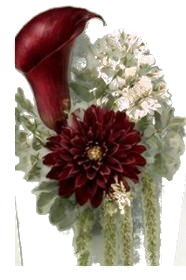
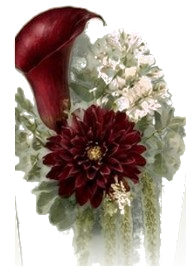
Tilpass siden til designsystemet, ny nedtelling og ikoner i programmet
- Retter avvik fra designsystemet: én rød aksent, calla-rød disk, kontrast
  på nedtellingen, ingen script under 32 px, tilt-vinkler, ikoner i green-leaf
- Hvit peon i stedet for calla ved «Kommer du?», mindre «Kommer du?»-tekst
- Blomsterklyngen toner ut i bunnen i stedet for å være kuttet
- Nedtellingen står til høyre med hvit bukett, som i Canva
- Fjerner stedssiden med stort bilde og stedslapp
- Linjeikoner ved hvert punkt i programmet

Changed region(s): [[0.3763, 0.8, 0.8871, 0.9714], [0.0806, 0.8571, 0.1344, 0.9429]]

diff --git a/style.css b/style.css
@@ -11,7 +11,7 @@
   /* Flater */
   --sage: #d1d4cd;          /* målt fra Canva-sidene */
   --paper: #f7f3ea;
-  --raised: #fffdf8;
+  --raised: #fcfaf5;
   --forest: #3f4b38;
   --envelope: #626552;
   --burgundy: #410013;
@@ -25,13 +25,14 @@
   --leaf: #4f6b53;
   --sage-deep: #8fa08b;
   --line: #ddd6c8;
-  --inset: #c9bfa9;
-  --inset-dark: #f7f3ea55;
+  --inset: #4a2c0a59;
+  --inset-dark: #f7f3ea66;
 
   --space-1: 4px; --space-2: 8px; --space-3: 16px; --space-4: 24px; --space-5: 40px; --space-6: 64px;
   --radius-paper: 2px; --radius-sm: 6px; --radius-pill: 9999px;
-  --shadow-paper: 0 2px 4px #2b21180f, 0 8px 18px -4px #2b211826;
-  --shadow-lifted: 0 4px 8px #2b211814, 0 16px 30px -6px #2b211838;
+  --shadow-paper: 0 1px 2px #2b211814, 0 10px 22px -6px #2b21182e;
+  --shadow-lifted: 0 2px 4px #2b21181a, 0 18px 36px -8px #2b211840;
+  --calla: #4a151b;
   --focus-ring: 0 0 0 3px var(--paper), 0 0 0 6px var(--leaf);
 
   --font-script: "Great Vibes", "Snell Roundhand", cursive;
@@ -70,7 +71,7 @@ a { color: var(--wine); }
 .env__pocket { position: absolute; inset: auto 0 0 0; height: 100%; background: var(--envelope); clip-path: polygon(0 0, 50% 54%, 100% 0, 100% 100%, 0 100%); z-index: 2; border-radius: var(--radius-paper); }
 .env__flap { position: absolute; inset: 0 0 auto 0; height: 62%; background: color-mix(in srgb, var(--envelope) 92%, #000); clip-path: polygon(0 0, 100% 0, 50% 100%); transform-origin: top center; z-index: 3; transition: transform 800ms ease-in-out, z-index 0s 400ms; }
 .env__card { position: absolute; left: 8%; right: 8%; top: 8%; bottom: 8%; z-index: 1; background: var(--paper); border-radius: var(--radius-paper); color: var(--brown); display: grid; place-items: start center; padding-top: 10%; transition: transform 800ms ease-in-out 250ms; }
-.env__card .script { font-size: clamp(30px, 8vw, 40px); line-height: 1.1; }
+.env__card .script { font-size: clamp(32px, 8vw, 40px); line-height: 1.1; }
 .seal { position: absolute; left: 50%; top: 62%; width: 96px; height: 96px; transform: translate(-50%, -50%); z-index: 4; filter: drop-shadow(0 3px 4px #3e0a1766); transition: opacity 300ms ease-out; }
 .env:hover .seal { transform: translate(-50%, -50%) scale(1.04); transition: transform 250ms ease-out; }
 .env.is-open .env__flap { transform: rotateX(180deg); z-index: 0; }
@@ -113,9 +114,10 @@ a { color: var(--wine); }
 
 /* ---------- Program ---------- */
 .timeline { list-style: none; margin: 0; padding: 0; }
-.timeline li { display: grid; grid-template-columns: 76px 1fr; gap: var(--space-3); padding: var(--space-4) 0; border-top: 1px solid var(--line); }
+.timeline li { display: grid; grid-template-columns: 60px 1fr; align-items: center; gap: var(--space-4); padding: var(--space-4) 0; border-top: 1px solid var(--line); }
 .timeline li:last-child { border-bottom: 1px solid var(--line); }
-.time { font: 600 18px/29px var(--font-caps); letter-spacing: .1em; color: var(--wine); }
+.time { font: 600 16px/29px var(--font-caps); letter-spacing: .1em; color: var(--wine); margin-right: 4px; }
+.timeline__ikon { width: 100%; height: auto; max-height: 52px; }
 .timeline h3 { font: 600 17px/29px var(--font-caps); letter-spacing: .16em; text-transform: uppercase; color: var(--brown); }
 .timeline p { color: var(--ink); }
 
@@ -184,7 +186,7 @@ select.input { appearance: none; background-image: linear-gradient(45deg, transp
   .bouquet--bl { height: 26vh; }
   .cover { padding-top: 22vh; padding-bottom: 18vh; place-items: start center; }
   .collage { gap: var(--space-5); }
-  .timeline li { grid-template-columns: 64px 1fr; }
+  .timeline li { grid-template-columns: 56px 1fr; gap: var(--space-3); }
 }
 
 @media (prefers-reduced-motion: reduce) {
@@ -344,12 +346,12 @@ select.input { appearance: none; background-image: linear-gradient(45deg, transp
 .k { position: absolute; margin: 0; }
 
 .k-env     { left: calc(108 * var(--u)); top: calc(12 * var(--u));  width: calc(410 * var(--u)); z-index: 1; }
-.k-navn    { left: calc(44 * var(--u));  top: calc(300 * var(--u)); width: calc(300 * var(--u)); height: calc(225 * var(--u)); z-index: 3; }
-.k-std     { left: calc(342 * var(--u)); top: calc(236 * var(--u)); width: calc(230 * var(--u)); height: calc(284 * var(--u)); z-index: 2; rotate: 3deg; }
+.k-navn    { left: calc(44 * var(--u));  top: calc(300 * var(--u)); width: calc(300 * var(--u)); height: calc(225 * var(--u)); z-index: 3; rotate: -1deg; }
+.k-std     { left: calc(342 * var(--u)); top: calc(236 * var(--u)); width: calc(230 * var(--u)); height: calc(284 * var(--u)); z-index: 2; rotate: 4deg; }
 .k-blomst  { left: calc(255 * var(--u)); top: calc(575 * var(--u)); width: calc(80 * var(--u));  z-index: 2; }
 .k-rsvp    { left: calc(88 * var(--u));  top: calc(545 * var(--u)); width: calc(176 * var(--u)); height: calc(192 * var(--u)); z-index: 3; rotate: -3deg; }
-.k-polaroid{ left: calc(330 * var(--u)); top: calc(552 * var(--u)); width: calc(215 * var(--u)); z-index: 4; rotate: 3deg; }
-.k-calla   { left: calc(34 * var(--u)); top: calc(478 * var(--u)); width: calc(170 * var(--u)); z-index: 4; rotate: -28deg; filter: drop-shadow(0 2px 3px #2b21181f); pointer-events: none; }
+.k-polaroid{ left: calc(330 * var(--u)); top: calc(552 * var(--u)); width: calc(215 * var(--u)); z-index: 4; rotate: -1deg; }
+.k-peon    { left: calc(22 * var(--u)); top: calc(500 * var(--u)); width: calc(118 * var(--u)); z-index: 3; rotate: -8deg; filter: drop-shadow(0 2px 3px #2b21181f); pointer-events: none; }
 .k-disk    { left: calc(260 * var(--u)); top: calc(722 * var(--u)); width: calc(100 * var(--u)); height: calc(100 * var(--u)); z-index: 6; }
 
 /* Papirkort */
@@ -372,16 +374,16 @@ select.input { appearance: none; background-image: linear-gradient(45deg, transp
 .k-std__sted { font: 600 calc(22 * var(--u))/1.2 var(--font-serif); margin-top: calc(4 * var(--u)); }
 .k-std__by { font: 400 max(9px, calc(14 * var(--u)))/1.3 var(--font-serif); }
 .k-std__dato { font: 600 calc(20 * var(--u))/1.2 var(--font-serif); }
-.k-std__samme { margin-top: calc(8 * var(--u)); font: 600 max(8px, calc(10 * var(--u)))/1.2 var(--font-caps); letter-spacing: .08em; white-space: nowrap; text-transform: uppercase; color: var(--wine); }
+.k-std__samme { margin-top: calc(8 * var(--u)); font: 600 max(8px, calc(11 * var(--u)))/1.35 var(--font-caps); letter-spacing: .14em; text-transform: uppercase; color: var(--brown); }
 .k-rsvp__lead { font: 400 calc(28 * var(--u))/1 var(--font-script); }
-.k-rsvp__word { font: 500 calc(32 * var(--u))/1.1 var(--font-serif); letter-spacing: .08em; text-transform: uppercase; }
-.k-rsvp__frist { font: 400 calc(21 * var(--u))/1.1 var(--font-script); margin-top: calc(8 * var(--u)); }
-.k-rsvp__knapp { margin-top: calc(12 * var(--u)); padding: calc(5 * var(--u)) calc(14 * var(--u)); border-radius: var(--radius-pill); background: var(--burgundy); color: var(--on-dark); font: 600 max(8px, calc(11 * var(--u)))/1.2 var(--font-caps); letter-spacing: .16em; text-transform: uppercase; }
+.k-rsvp__word { font: 500 calc(24 * var(--u))/1.15 var(--font-serif); letter-spacing: .08em; text-transform: uppercase; }
+.k-rsvp__frist { font: italic 400 max(10px, calc(16 * var(--u)))/1.3 var(--font-serif); color: var(--muted); margin-top: calc(8 * var(--u)); }
+.k-rsvp__knapp { margin-top: calc(12 * var(--u)); padding-bottom: calc(2 * var(--u)); border-bottom: 1px solid currentColor; font: 600 max(8px, calc(11 * var(--u)))/1.2 var(--font-caps); letter-spacing: .16em; text-transform: uppercase; }
 
 .k-polaroid { box-sizing: border-box; padding: calc(10 * var(--u)) calc(10 * var(--u)) calc(34 * var(--u)); background: var(--raised); border-radius: var(--radius-paper); box-shadow: var(--shadow-paper); }
-.k-polaroid img { width: 100%; aspect-ratio: 5 / 6; object-fit: cover; object-position: 50% 20%; }
+.k-polaroid img { width: 100%; aspect-ratio: 4 / 5; object-fit: cover; object-position: 50% 20%; }
 
-.k-disk { display: flex; flex-direction: column; align-items: center; justify-content: center; border-radius: 50%; background: var(--calla, #55161b); color: var(--on-dark); text-decoration: none; box-shadow: var(--shadow-paper); }
+.k-disk { display: flex; flex-direction: column; align-items: center; justify-content: center; border-radius: 50%; background: var(--calla); color: var(--on-dark); text-decoration: none; box-shadow: var(--shadow-paper); }
 .k-disk__caps { font: 600 max(8px, calc(11 * var(--u)))/1.2 var(--font-caps); letter-spacing: .18em; text-transform: uppercase; }
 .k-disk__script { font: 400 calc(28 * var(--u))/1.1 var(--font-script); }
 
@@ -400,7 +402,7 @@ a.k:focus-visible { outline: 2px solid transparent; box-shadow: var(--focus-ring
 .is-open .k-rsvp     { animation-delay: 1100ms; }
 .is-open .k-polaroid { animation-delay: 1250ms; }
 .is-open .k-blomst   { animation-name: kInn; animation-delay: 1450ms; }
-.is-open .k-calla    { animation-name: kInn; animation-delay: 1550ms; }
+.is-open .k-peon     { animation-name: kInn; animation-delay: 1550ms; }
 .is-open .k-disk     { animation: popp 700ms cubic-bezier(.3, 1.6, .5, 1) 1900ms both; }
 .js .k-polaroid img { filter: sepia(1) brightness(1.7) blur(6px); }
 .is-open .k-polaroid img { animation: develop 1200ms ease-out 1700ms forwards; }
@@ -427,38 +429,19 @@ a.k:focus-visible { outline: 2px solid transparent; box-shadow: var(--focus-ring
 .env { width: min(440px, 82vw); }
 .cover__hint { font: 600 clamp(15px, 2.4vw, 20px)/1.4 var(--font-caps); letter-spacing: .06em; }
 
-/* Felles for sidene med blomsterbuketter i hjørnene */
-.blomsterside { position: relative; overflow: hidden; background: var(--sage); color: var(--brown); }
-.blomsterside .bouquet--tr { height: min(46%, 440px, 64vw); }
-.blomsterside .bouquet--bl { height: min(36%, 360px, 46vw); }
-
-/* Nedtelling nederst i invitasjonsdelen */
-.nedtelling { margin-top: var(--space-5); text-align: center; }
-.nedtelling__tall { display: flex; align-items: flex-start; justify-content: center; gap: clamp(8px, 3vw, 28px); }
-.nedtelling__enhet { display: flex; flex-direction: column; align-items: center; min-width: 3ch; }
-.nedtelling__enhet strong { font: 600 clamp(52px, 11vw, 92px)/1 var(--font-serif); font-variant-numeric: lining-nums tabular-nums; color: var(--brown); }
-.nedtelling__enhet span { margin-top: var(--space-2); font: 600 clamp(13px, 2vw, 16px)/1 var(--font-caps); letter-spacing: .14em; text-transform: uppercase; color: var(--muted); }
-.nedtelling__kolon { font: 600 clamp(40px, 8vw, 72px)/1 var(--font-serif); color: var(--muted); }
-.nedtelling__tekst { margin-top: var(--space-4); font-size: clamp(38px, 7vw, 60px); line-height: 1.1; color: var(--ink); }
-
-/* Stedet: bildet av paret og lappen med adressen */
-.sted { padding: clamp(120px, 22vw, 200px) var(--space-3) clamp(140px, 24vw, 220px); }
-.sted__inner { position: relative; z-index: 1; width: min(560px, 100%); margin: 0 auto; }
-.sted__bilde { width: 100%; box-shadow: var(--shadow-paper); }
-.sted__lapp { display: flex; flex-direction: column; align-items: center; gap: var(--space-2); width: min(56%, 300px); margin: var(--space-6) 0 0 auto; padding: var(--space-4) var(--space-3) var(--space-3); background: #f4f2ea; color: var(--ink); text-align: center; text-decoration: none; border-radius: var(--radius-paper) var(--radius-paper) var(--radius-sm) var(--radius-sm); box-shadow: var(--shadow-paper); rotate: .8deg; transition: transform 250ms ease-out, box-shadow 250ms ease-out; }
-.sted__lapp:hover { transform: translateY(-4px); box-shadow: var(--shadow-lifted); }
-.sted__lapp:focus-visible { outline: 2px solid transparent; box-shadow: var(--focus-ring); }
-.sted__lapp .ikon--hus { width: 54%; }
-.sted__lapp .ikon--ringer { width: 26%; margin-top: var(--space-2); }
-.sted__lapp .ikon--glass { width: 22%; align-self: flex-end; margin: var(--space-2) var(--space-3) 0 0; }
-.sted__navn { font: 600 clamp(19px, 4vw, 26px)/1.2 var(--font-serif); }
-.sted__adresse { font-size: clamp(14px, 2.6vw, 17px); line-height: 1.3; }
-.sted__samme { font: 600 12px/1.3 var(--font-caps); letter-spacing: .08em; white-space: nowrap; text-transform: uppercase; color: var(--wine); }
-.sted__dato { font: 600 clamp(18px, 3.6vw, 24px)/1.2 var(--font-serif); }
+/* Nedtelling nederst i invitasjonsdelen: til høyre, med den hvite buketten nederst til venstre (som i Canva) */
+#invitasjon { position: relative; overflow: hidden; }
+.nedtelling__bukett { position: absolute; left: 0; bottom: 0; height: clamp(118px, 30vw, 340px); width: auto; pointer-events: none; user-select: none; }
+.nedtelling { position: relative; z-index: 1; width: min(60%, 470px); margin: var(--space-5) max(var(--space-3), 50% - 470px) 0 auto; text-align: center; }
+.nedtelling__tall { display: flex; align-items: flex-start; justify-content: center; gap: clamp(6px, 2vw, 22px); }
+.nedtelling__enhet { display: flex; flex-direction: column; align-items: center; min-width: 2.4ch; }
+.nedtelling__enhet strong { font: 600 clamp(40px, 9vw, 84px)/1 var(--font-serif); font-variant-numeric: lining-nums tabular-nums; color: var(--brown); }
+.nedtelling__enhet span { margin-top: var(--space-2); font: 600 clamp(11px, 1.8vw, 15px)/1 var(--font-caps); letter-spacing: .14em; text-transform: uppercase; color: var(--brown); }
+.nedtelling__kolon { font: 600 clamp(30px, 7vw, 64px)/1 var(--font-serif); color: var(--brown); opacity: .6; }
+.nedtelling__tekst { margin-top: var(--space-3); font-size: clamp(32px, 6vw, 56px); line-height: 1.1; color: var(--ink); }
 
 @media (max-width: 560px) {
   .env { width: min(360px, 86vw); }
-  .sted__lapp { width: 72%; }
 }
 
 /* =====================================================
@@ -482,3 +465,6 @@ a.k:focus-visible { outline: 2px solid transparent; box-shadow: var(--focus-ring
 
 /* Konvolutten på forsiden får samme papirfølelse */
 .env__body, .env__pocket, .env__flap { background-image: var(--papir); background-size: var(--papir-str); background-blend-mode: overlay; }
+
+/* Linjeikoner: 1,5 px i green-leaf, som designsystemet sier */
+.ikon { color: var(--leaf); }

diff --git a/index.html b/index.html
@@ -15,7 +15,7 @@
 <!-- Strektegnede ikoner (hus, ringer, glass) som brukes flere steder -->
 <svg width="0" height="0" style="position:absolute" aria-hidden="true">
   <symbol id="ikon-hus" viewBox="0 0 120 64">
-    <g fill="none" stroke="currentColor" stroke-width="1.6" stroke-linejoin="round" stroke-linecap="round">
+    <g fill="none" stroke="currentColor" stroke-width="1.5" stroke-linejoin="round" stroke-linecap="round">
       <path d="M2 62 H118"/>
       <path d="M38 62 V22 H82 V62"/><path d="M34 22 L44 8 H76 L86 22"/><path d="M56 8 V4 H62 V8"/>
       <path d="M12 62 V32 H38"/><path d="M8 32 L16 25 H38"/><path d="M82 32 H108 V62"/><path d="M82 25 H104 L112 32"/>
@@ -26,14 +26,34 @@
     </g>
   </symbol>
   <symbol id="ikon-ringer" viewBox="0 0 60 44">
-    <g fill="none" stroke="currentColor" stroke-width="1.6">
+    <g fill="none" stroke="currentColor" stroke-width="1.5">
       <circle cx="21" cy="27" r="14"/><circle cx="21" cy="27" r="11"/>
       <circle cx="36" cy="27" r="14"/><circle cx="36" cy="27" r="11"/>
       <path d="M47 11 c-1.5 -2.5 -5.5 -1.5 -4.5 1.5 l4.5 4.5 l4.5 -4.5 c1 -3 -3 -4 -4.5 -1.5 z" stroke-linejoin="round"/>
     </g>
   </symbol>
+  <symbol id="ikon-middag" viewBox="0 0 72 48">
+    <g fill="none" stroke="currentColor" stroke-width="1.5" stroke-linecap="round" stroke-linejoin="round">
+      <circle cx="36" cy="24" r="17"/><circle cx="36" cy="24" r="11"/>
+      <path d="M7 6 V15 Q7 19 10 19 Q13 19 13 15 V6 M10 6 V15 M10 19 V42"/>
+      <path d="M62 42 V6 Q67 12 66 22 L62 24"/>
+    </g>
+  </symbol>
+  <symbol id="ikon-kake" viewBox="0 0 64 48">
+    <g fill="none" stroke="currentColor" stroke-width="1.5" stroke-linecap="round" stroke-linejoin="round">
+      <ellipse cx="32" cy="42" rx="28" ry="4"/>
+      <path d="M10 27 L46 15 L54 19 L18 31 Z"/><path d="M18 31 V40 L54 28 V19"/><path d="M10 27 V36 L18 40"/>
+      <path d="M18 35.5 L54 23.5"/><circle cx="42" cy="13" r="3"/><path d="M43 10 Q45 6 48 6"/>
+    </g>
+  </symbol>
+  <symbol id="ikon-natt" viewBox="0 0 60 48">
+    <g fill="none" stroke="currentColor" stroke-width="1.5" stroke-linecap="round" stroke-linejoin="round">
+      <path d="M38 6 A18 18 0 1 0 54 32 A14 14 0 1 1 38 6 Z"/>
+      <path d="M14 8 V16 M10 12 H18 M20 30 V36 M17 33 H23 M50 6 V10 M48 8 H52"/>
+    </g>
+  </symbol>
   <symbol id="ikon-glass" viewBox="0 0 60 64">
-    <g fill="none" stroke="currentColor" stroke-width="1.6" stroke-linecap="round" stroke-linejoin="round">
+    <g fill="none" stroke="currentColor" stroke-width="1.5" stroke-linecap="round" stroke-linejoin="round">
       <g transform="rotate(-16 18 34)"><path d="M11 10 H25 L24 30 Q18 37 12 30 Z"/><path d="M12 22 H24"/><path d="M18 34 V54 M12 54 H24"/></g>
       <g transform="rotate(16 42 34)"><path d="M35 10 H49 L48 30 Q42 37 36 30 Z"/><path d="M36 22 H48"/><path d="M42 34 V54 M36 54 H48"/></g>
       <path d="M30 3 V7 M25 4 L27 8 M35 4 L33 8"/>
@@ -78,16 +98,16 @@
         <p class="k-navn__caps">gifter seg</p>
         <p class="k-navn__tekst">og vil gjerne feire dagen med <span id="gjest">deg</span></p>
       </div>
-      <a class="k k-std" href="#sted">
+      <a class="k k-std" href="#info">
         <svg class="ikon ikon--hus" viewBox="0 0 120 64" aria-hidden="true"><use href="#ikon-hus"/></svg>
         <span class="k-std__sted">Telemarkstunet</span>
         <span class="k-std__by">Kantvegen 135<br>2618 Lillehammer</span>
         <svg class="ikon ikon--ringer" viewBox="0 0 60 44" aria-hidden="true"><use href="#ikon-ringer"/></svg>
         <span class="k-std__dato">21. august 2027</span>
-        <span class="k-std__samme">Vielse og fest samme sted</span>
+        <span class="k-std__samme">Vielse og fest<br>samme sted</span>
       </a>
       <img class="k k-blomst" src="assets/blomsterklynge.png" alt="">
-      <img class="k k-calla" src="assets/calla-hvit.png" alt="">
+      <img class="k k-peon" src="assets/peon-hvit.png" alt="">
       <a class="k k-rsvp" href="#rsvp">
         <span class="k-rsvp__word">Kommer<br>du?</span>
         <span class="k-rsvp__frist">Svar innen 1. mai 2027</span>
@@ -103,11 +123,8 @@
     </div>
   </div>
 
-  <div class="wrap intro reveal">
-    <p class="lead">Vi gleder oss til å feire dagen vår sammen med deg på Telemarkstunet på Lillehammer.</p>
-  </div>
-
-  <div class="wrap nedtelling reveal">
+  <img class="nedtelling__bukett" src="assets/bukett-hvit.jpg" alt="">
+  <div class="nedtelling reveal">
     <div class="nedtelling__tall" id="countdown">
       <span class="nedtelling__enhet"><strong id="cd-dager">–</strong><span>Dager</span></span>
       <span class="nedtelling__kolon" aria-hidden="true">:</span>
@@ -119,24 +136,6 @@
   </div>
 </section>
 
-<!-- ============ STEDET ============ -->
-<section class="blomsterside sted" id="sted">
-  <img class="bouquet bouquet--tr" src="assets/bukett-burgunder.jpg" alt="">
-  <img class="bouquet bouquet--bl" src="assets/bukett-hvit.jpg" alt="">
-  <div class="sted__inner">
-    <img class="sted__bilde reveal" src="assets/par-illustrasjon.jpg" alt="Akvarellillustrasjon av Emilie og Stig i bryllupsantrekk">
-    <a class="sted__lapp reveal" href="https://www.google.com/maps/search/?api=1&amp;query=Telemarkstunet%2C+Kantvegen+135%2C+2618+Lillehammer" target="_blank" rel="noopener">
-      <svg class="ikon ikon--hus" viewBox="0 0 120 64" aria-hidden="true"><use href="#ikon-hus"/></svg>
-      <span class="sted__navn">Telemarkstunet</span>
-      <span class="sted__adresse">Kantvegen 135, 2618 Lillehammer</span>
-      <span class="sted__samme">Både vielse og fest er her</span>
-      <svg class="ikon ikon--ringer" viewBox="0 0 60 44" aria-hidden="true"><use href="#ikon-ringer"/></svg>
-      <span class="sted__dato">21. august 2027</span>
-      <svg class="ikon ikon--glass" viewBox="0 0 60 64" aria-hidden="true"><use href="#ikon-glass"/></svg>
-    </a>
-  </div>
-</section>
-
 <!-- ============ PROGRAM ============ -->
 <section class="section section--paper" id="program">
   <div class="wrap narrow">
@@ -144,11 +143,11 @@
     <p class="note reveal">Foreløpig program – tidene kan endre seg.</p>
 
     <ol class="timeline">
-      <li class="reveal"><span class="time">14.00</span><div><h3>Vielse</h3><p>Seremoni på Telemarkstunet. Hele dagen, også festen, er på samme sted.</p></div></li>
-      <li class="reveal"><span class="time">15.00</span><div><h3>Bobler og bilder</h3><p>Skål med brudeparet og fotografering.</p></div></li>
-      <li class="reveal"><span class="time">17.30</span><div><h3>Middag</h3><p>Middag, taler og god stemning.</p></div></li>
-      <li class="reveal"><span class="time">21.00</span><div><h3>Kake og første dans</h3><p>Deretter er dansegulvet åpent.</p></div></li>
-      <li class="reveal"><span class="time">01.00</span><div><h3>Takk for i dag</h3><p>Transport tilbake til sentrum.</p></div></li>
+      <li class="reveal"><svg class="ikon timeline__ikon" viewBox="0 0 60 44" aria-hidden="true"><use href="#ikon-ringer"/></svg><div><h3>Vielse</h3><p><span class="time">kl. 14.00</span> Seremoni på Telemarkstunet. Hele dagen, også festen, er på samme sted.</p></div></li>
+      <li class="reveal"><svg class="ikon timeline__ikon" viewBox="0 0 60 64" aria-hidden="true"><use href="#ikon-glass"/></svg><div><h3>Bobler og bilder</h3><p><span class="time">kl. 15.00</span> Skål med brudeparet og fotografering.</p></div></li>
+      <li class="reveal"><svg class="ikon timeline__ikon" viewBox="0 0 72 48" aria-hidden="true"><use href="#ikon-middag"/></svg><div><h3>Middag</h3><p><span class="time">kl. 17.30</span> Middag, taler og god stemning.</p></div></li>
+      <li class="reveal"><svg class="ikon timeline__ikon" viewBox="0 0 64 48" aria-hidden="true"><use href="#ikon-kake"/></svg><div><h3>Kake og første dans</h3><p><span class="time">kl. 21.00</span> Deretter er dansegulvet åpent.</p></div></li>
+      <li class="reveal"><svg class="ikon timeline__ikon" viewBox="0 0 60 48" aria-hidden="true"><use href="#ikon-natt"/></svg><div><h3>Takk for i dag</h3><p><span class="time">kl. 01.00</span> Transport tilbake til sentrum.</p></div></li>
     </ol>
   </div>
 </section>
